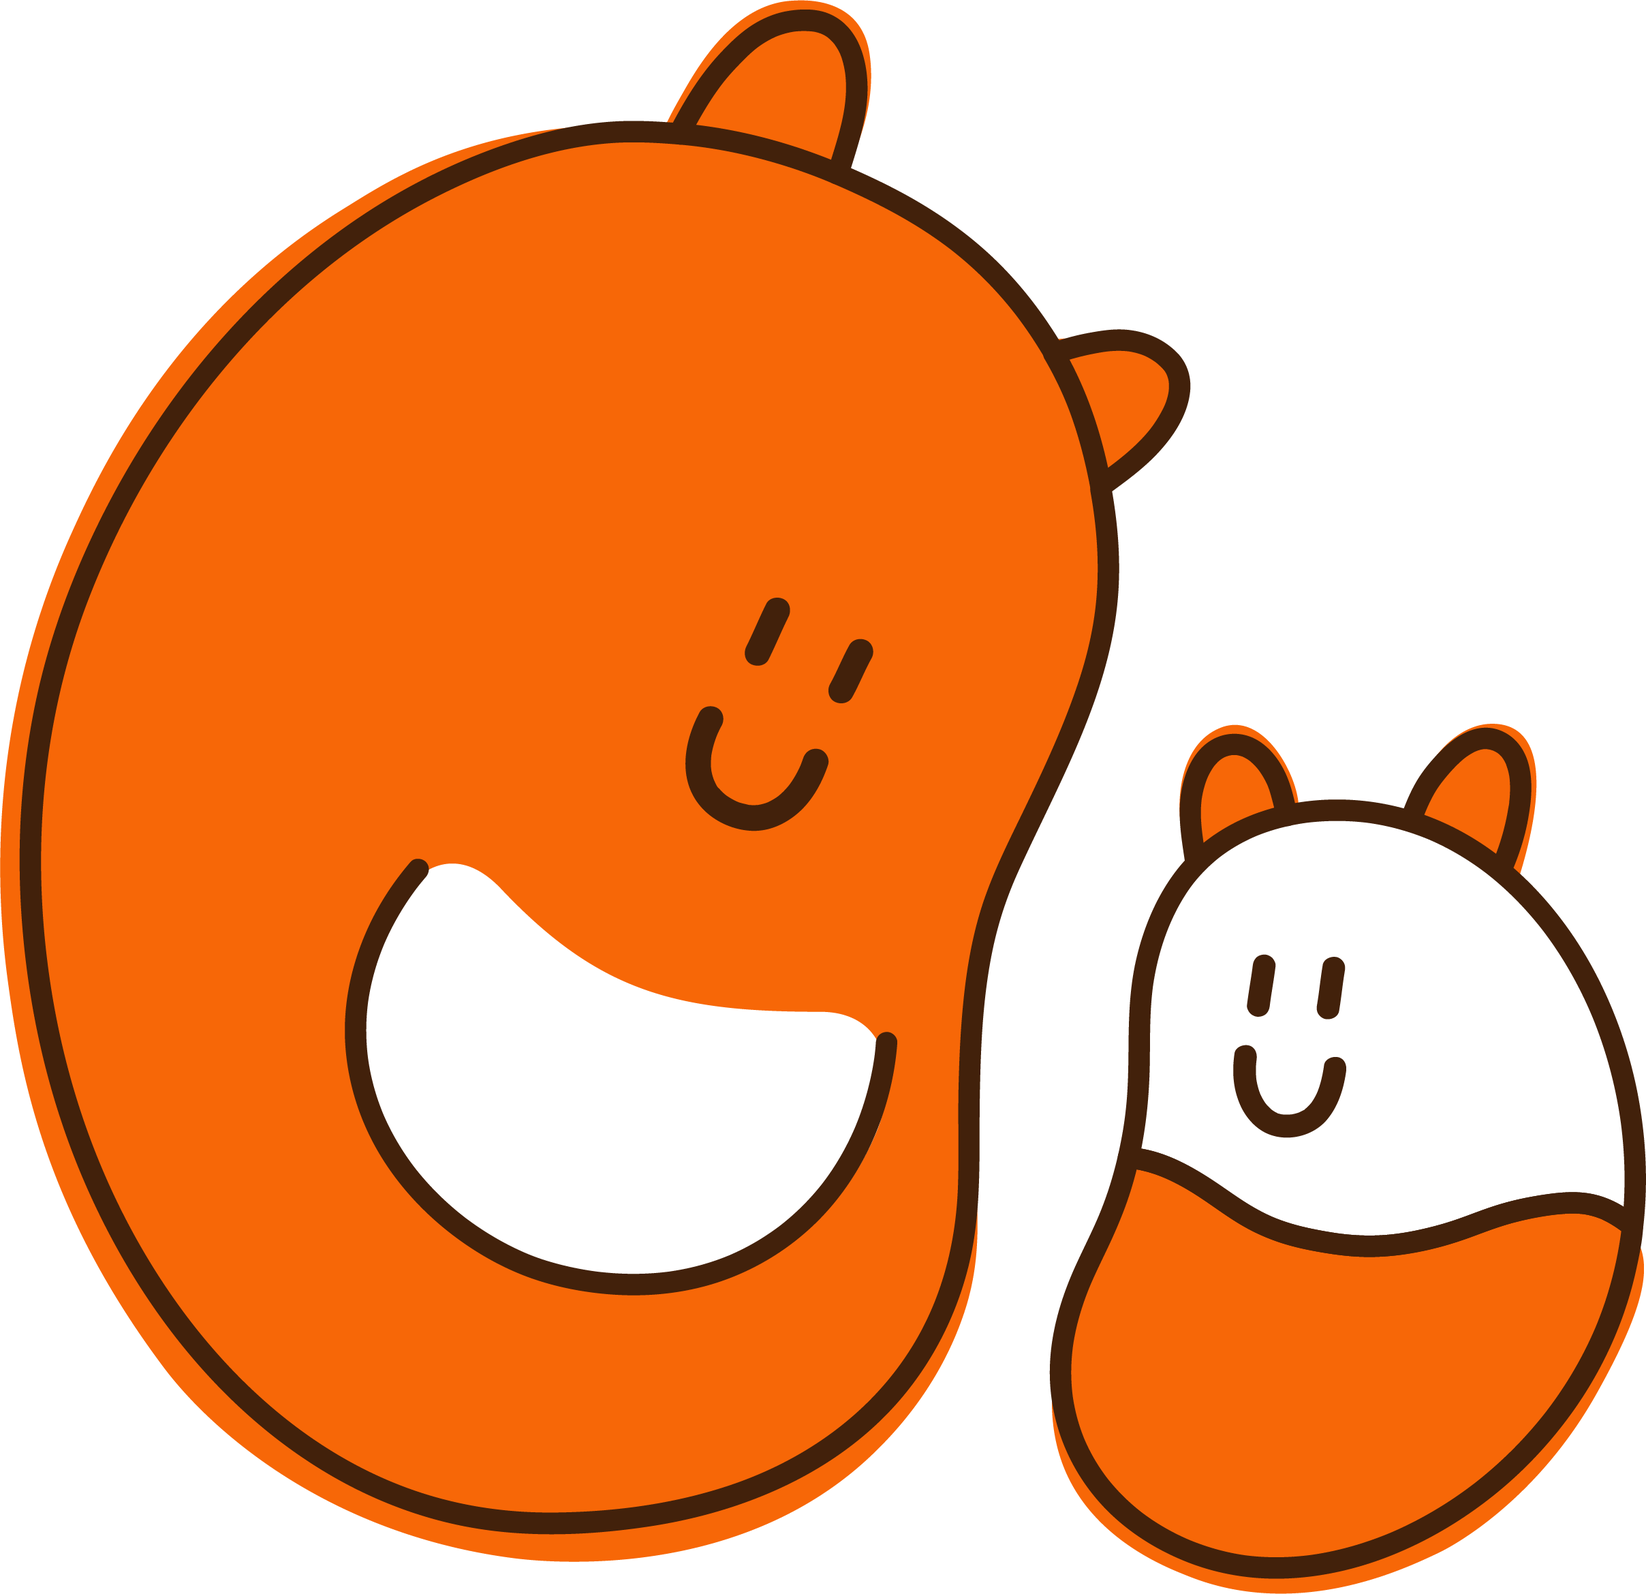
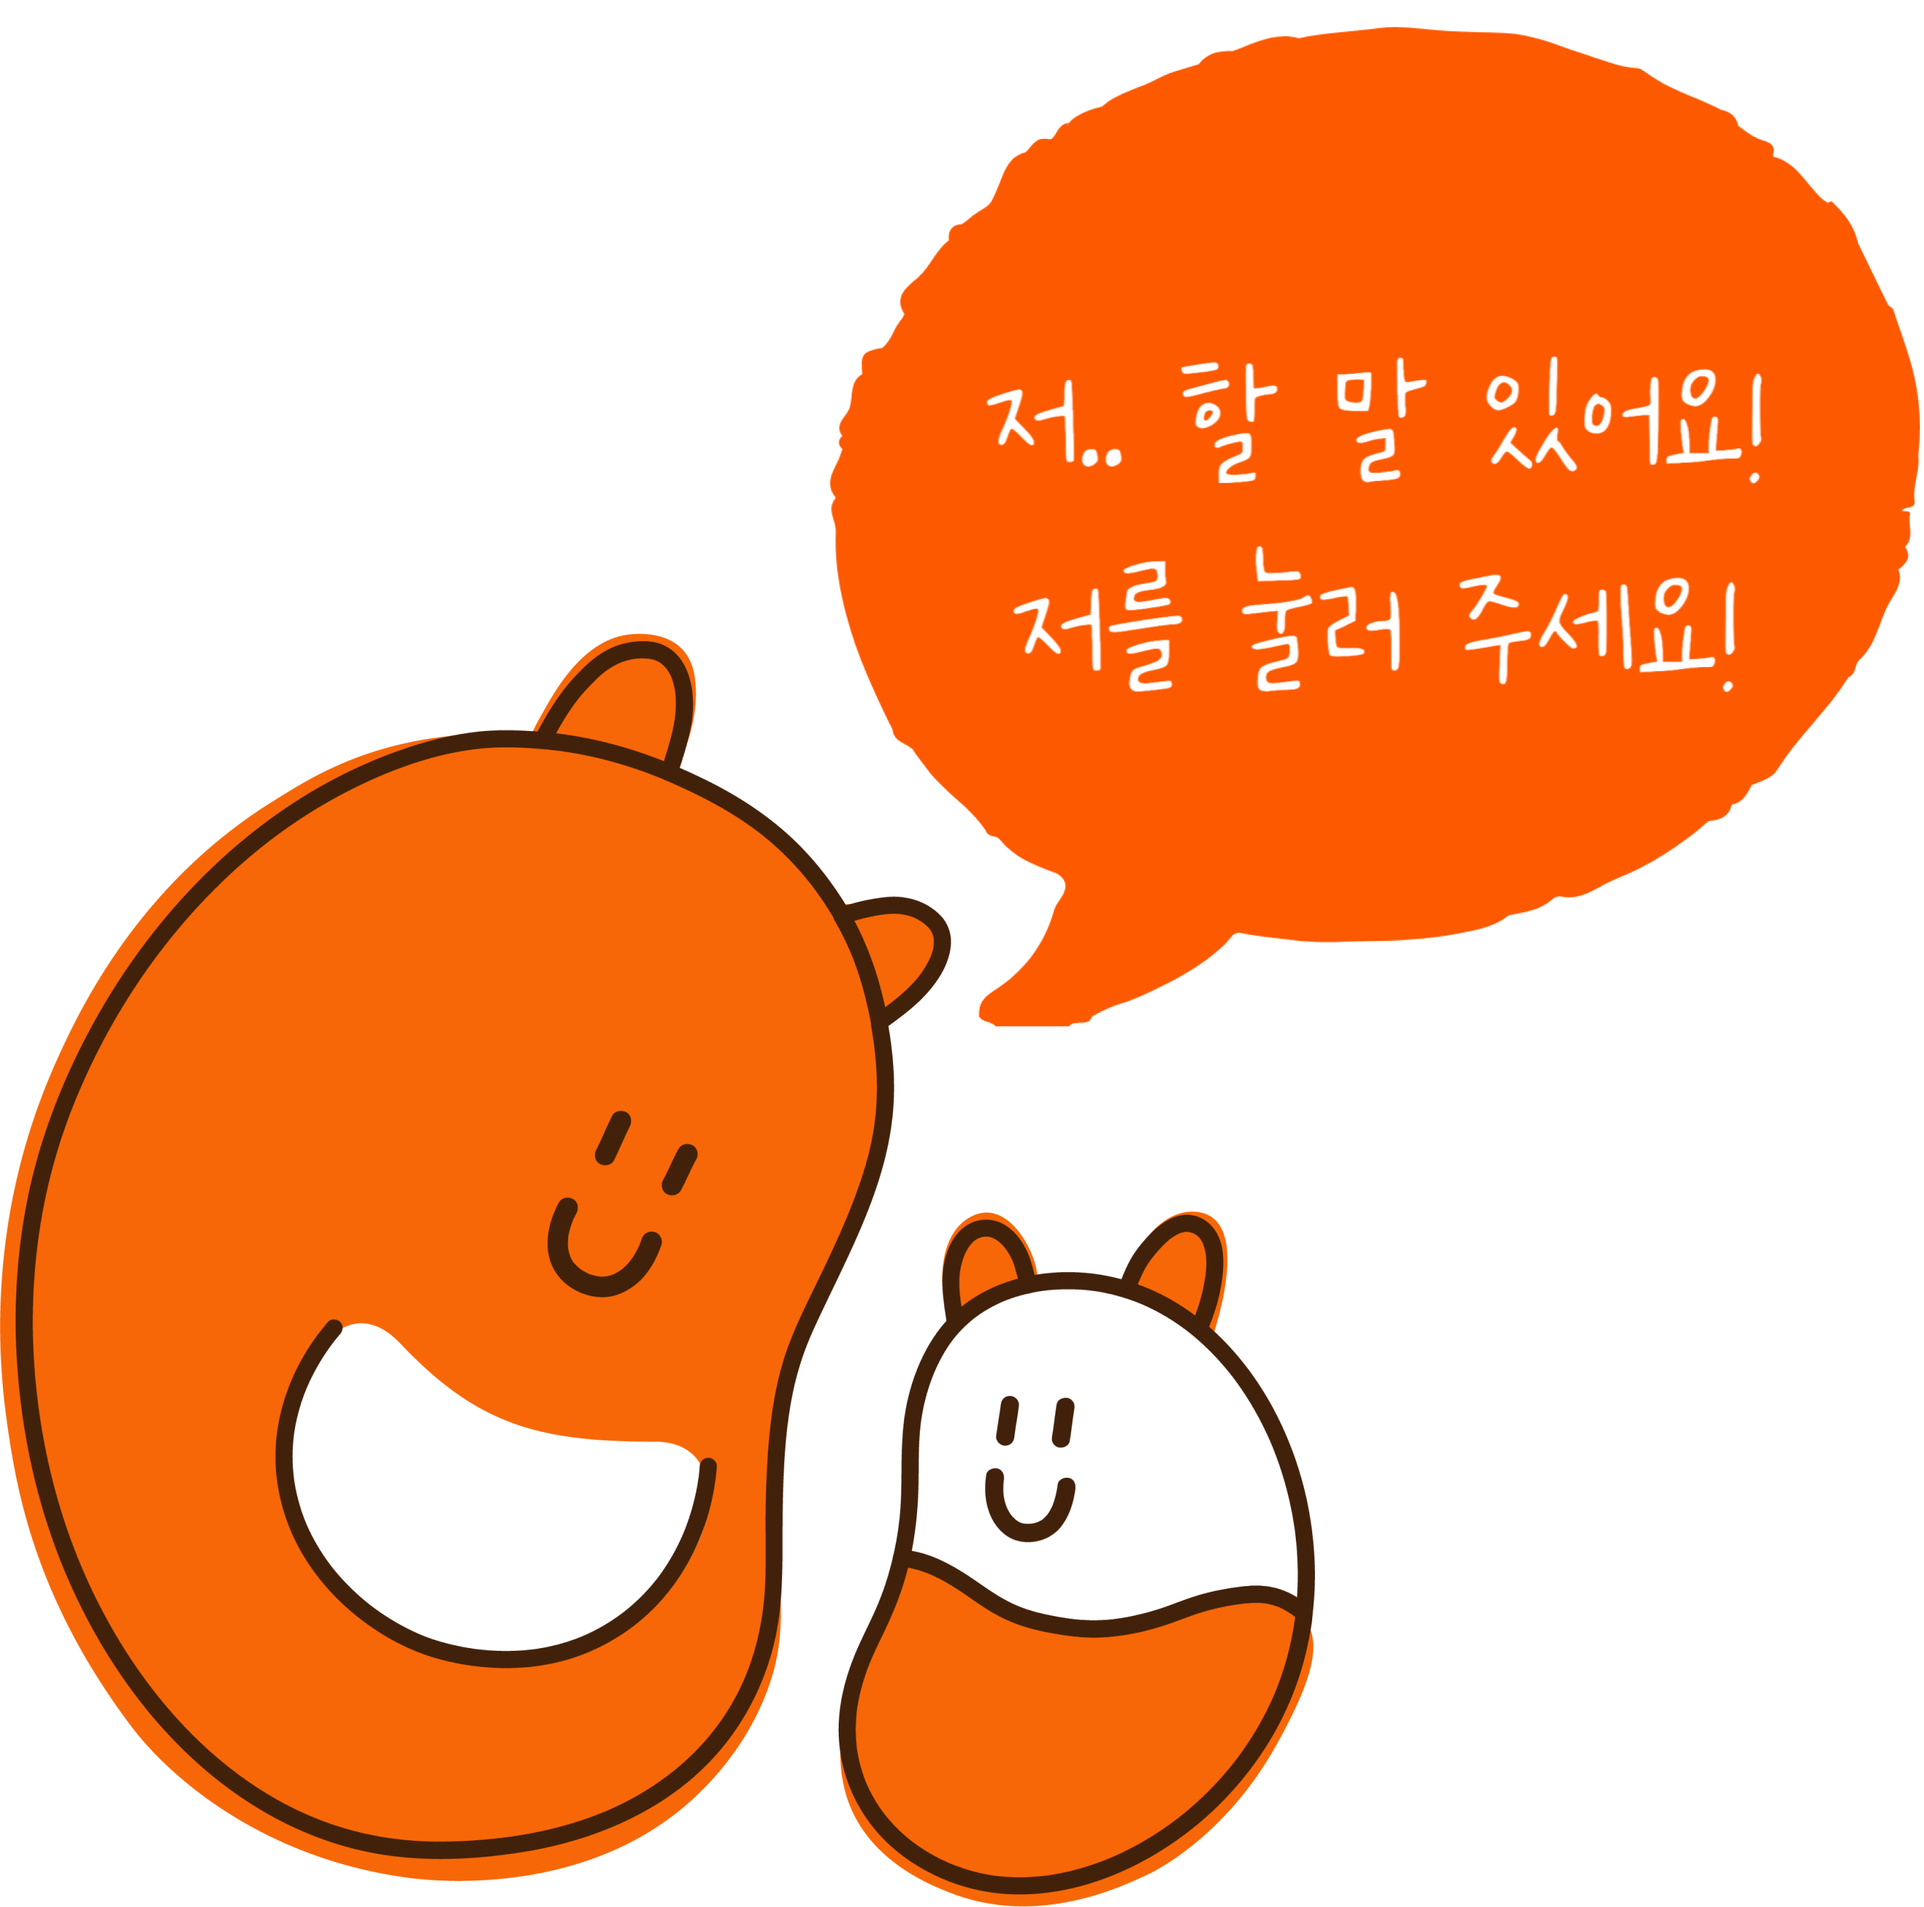
앱 이전 팝업 UI 추가

diff --git a/lib/MVP/View/Pages/home_screen.dart b/lib/MVP/View/Pages/home_screen.dart
@@ -1,6 +1,7 @@
 import 'dart:convert';
 import 'dart:io';
 import 'dart:typed_data';
+import 'package:flutter/scheduler.dart';
 import 'package:gilog/Local_DB/Utility.dart';
 import 'package:gilog/MVP/Presenter/image_controller.dart';
 import 'package:http/http.dart' as http;
@@ -21,6 +22,9 @@ import 'package:image_picker/image_picker.dart';
 import 'package:network_handler/network_handler.dart';
 import '../../Presenter/Http/http_presenter.dart';
 import 'package:cached_network_image/cached_network_image.dart';
+import 'package:url_launcher/url_launcher.dart';
+import 'package:url_launcher/link.dart';
+
 
 
 class Home_Screen extends StatefulWidget {
@@ -53,6 +57,7 @@ class _Home_ScreenState extends State<Home_Screen> {
     myFuture = read_today_question();
     super.initState();
   }
+
 
 
 
@@ -247,10 +252,55 @@ class _Home_ScreenState extends State<Home_Screen> {
                       ),
                       child: Center(
                         child: image_picked == null
-                            ? Image.asset(
-                          "assets/images/photo_null_image.png",
-                          width: size.width * 0.5,
-                        )
+                            //? Image.asset(
+                          //"assets/images/photo_null_image.png",
+                          //width: size.width * 0.5,
+                        //)
+                            ? SizedBox(
+                            height: size.height*0.35,
+                            width: size.width*0.7,
+
+                              child: IconButton(onPressed: (){
+                                  showDialog(
+                                  context: context,
+                                  barrierDismissible: false, // 바깥 영역 터치시 닫을지 여부
+                                  builder: (BuildContext context) {
+                                  return AlertDialog(
+                                  title: Text('기로그 어플 이전 안내'),
+                                  content: SingleChildScrollView(
+                                  child: ListBody(
+                                  children: <Widget>[
+                                  Text('기로기들의 성원에 힘입어 4월 1일 정식 버전의 기로그가 세상에 나오게 됐어요.'),
+                                    Text('새로워진 기로그를 만나러 가볼까요?'),
+                                  ],
+                                  ),
+                                  ),
+                                  actions: <Widget>[
+                                  TextButton(
+                                  child: Text('좋아요!'),
+                                  onPressed: () async {
+                                    Navigator.of(context).pop();
+                                    final Uri _url = Uri.parse('https://onelink.to/cy62c6');
+                                    if (!await launchUrl(_url)) {
+                                      throw Exception('Could not launch $_url');
+                                    }
+
+                                    }
+
+
+
+                                  ,
+                                  ),
+                                  ],
+                                  );
+                                  }
+                                  );
+                        }, icon: Ink.image(
+                              image: AssetImage("assets/images/photo_null_image.png"),
+                              child: Container(),
+                        )),
+                            )
+
                             : Container(
                           height: size.height*0.35,
                               width: size.width*0.7,
